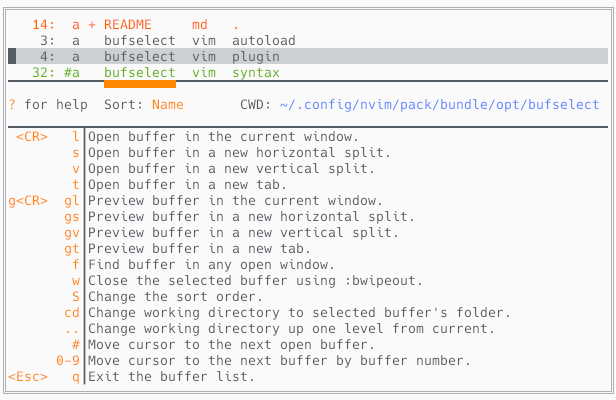
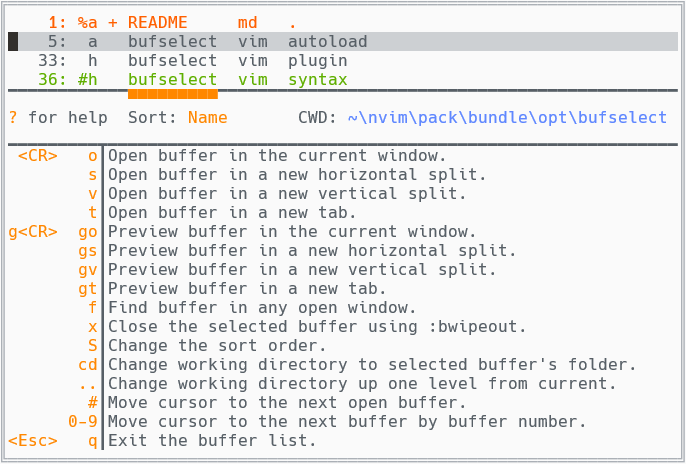
Bug fix:... Solution: Change the way settings are specified. (#34)
* Bug fix:... Solution: Change the way settings are specified.

This commit fixes a major bug. If the settings (`g:BufSelectSetup`) are
reset during an edit session, the plugin would fail when trying to
access a no-longer-present setting. BufSelect would fail to create its
own buffer, replace current buffer's contents, and set it to
unmodifiable. This was very difficult to undo, and could potentially
result in lost work/data.

In addition to the bug fix, the way settings are specified has been
improved. Instead of specifying them in a global variable, an autoload
function is called with the dictionary of settings, like so:

call bufselect#settings({'mappings':{'tab':'T'}})

* Clean up the README.

Changed region(s): [[0.0, 0.0, 1.0, 1.0]]

diff --git a/README.md b/README.md
@@ -5,13 +5,12 @@
 **BufSelect** is a minimalist buffer switcher plugin for Vim or Neovim. It was inspired by [bufexplorer](https://github.com/jlanzarotta/bufexplorer) and [buffergator](https://github.com/jeetsukumaran/vim-buffergator), but with some of their advanced functionality removed. What **BufSelect** ended up being is:
 
 * A [single command](#command) to kick things off.
-* A simple list in a floating window, showing the buffer number, filename, and relative path of all listed buffers. The list is generated each time **BufSelect** is displayed, thereby simplifying the code considerably.
-
+* A simple list in a floating window, showing the current working directory, and buffer number, filename, and relative path of all listed buffers.
     ![image](media/darkScreenshot.png)
-    <br/>**Figure 1**: BufSelect on a dark background
+    <br>**Figure 1**: BufSelect with a dark colorscheme
 
-* A few [key mappings](#key-mappings) to open and delete buffers, sort the list, change working directory, and quickly move between buffers.
-* Other settings define [sort order](#sort-order) and [custom highlighting](#custom-highlighting).
+* A few [key mappings](#key-mappings) to open, find, or delete buffers, sort the list, change working directory, and quickly navigate the list.
+* Other settings define [sort order](#sort-order) and [window customizations](#window-customizations).
 
 ## Installation
 
@@ -25,7 +24,7 @@ The `master` branch of this plugin is no longer compatible with Vim, and all new
 
 The only command is **`:ShowBufferList`**, which can be assigned to a key. The mapping is not done by this plugin, so as not to interfere with your existing mappings. Here's an example of how you would map the command:
 ```vim
-" vim script
+" vimscript
 nnoremap <silent> <leader>b :ShowBufferList<CR>
 ```
 ```lua
@@ -35,129 +34,73 @@ vim.api.nvim_set_keymap('n', '<leader>b', ':ShowBufferList<CR>', {noremap=true, 
 
 ## Settings
 
-Settings for **BufSelect** formerly were specified by 15 separate variables. They now are deprecated in favor of a single dictionary variable named `g:BufSelectSetup`. Using any of the old variables still will work but will cause a warning to be displayed.
+Settings for **BufSelect** are defined in a dictionary that is passed as a parameter to the `bufselect#settings` autoload function. The structure of the dictionary follows. Only the settings you want to override need to be specified. All others will use the default values, which are shown here.
 
-The structure of the dictionary follows. Only the settings you want to override need to be specified. All others will have the default value, which also is shown here. The corresponding old variables are in the last column.
-
-<table>
-    <thead>
-        <tr>
-            <th>Vim Script</th><th>Lua</th><th>Corresponding Old Variable</th>
-        </tr>
-    </thead>
-    <tbody>
-        <tr>
-            <td>
-<pre>
-let g:BufSelectSetup={
-\ 'mappings':{
- \ 'open':'o',
- \ 'split':'s',
- \ 'vsplit':'v',
- \ 'tab':'t',
- \ 'gopen':'go',
- \ 'gsplit':'gs',
- \ 'gvsplit':'gv',
- \ 'gtab':'gt',
- \ 'exit':'q',
- \ 'find':'f',
- \ 'delete':'x',
- \ 'sort':'S',
- \ 'cd':'cd',
- \ 'cdup':'..',
- \ 'next':'#'
-\ },
-\ 'sortOrder':'Name',
-\ 'win':{
- \ 'config':{'border':'double'},
- \ 'hl':''
- \ }
-\ }
-</pre>
-            </td>
-            <td>
-<pre>
-vim.g.BufSelectSetup={
- mappings={
-  open='o',
-  split='s',
-  vsplit='v',
-  tab='t',
-  gopen='go',
-  gsplit='gs',
-  gvsplit='gv',
-  gtab='gt',
-  exit='q',
-  find='f',
-  delete='x',
-  sort='S',
-  cd='cd',
-  cdup='..',
-  next='#'
- },
- sortOrder='Name',
- win={
-  config={border='double'},
-  hl=''
- }
+```vim
+{
+  "mappings": {
+    "open":    "o",
+    "split":   "s",
+    "vsplit":  "v",
+    "tab":     "t",
+    "gopen":   "go",
+    "gsplit":  "gs",
+    "gvsplit": "gv",
+    "gtab":    "gt",
+    "exit":    "q",
+    "find":    "f",
+    "delete":  "x",
+    "sort":    "S",
+    "cd":      "cd",
+    "cdup":    "..",
+    "next":    "#"
+  },
+  "sortOrder": "Name",
+  "win": {
+    "config": {"border": "double"},
+    "hl":     ""
+  }
 }
-</pre>
-            </td>
-            <td>
-<pre>
-           •
-           •
-BufSelectKeyOpen
-BufSelectKeySplit
-BufSelectKeyVSplit
-BufSelectKeyTab
-BufSelectKeyPreviewOpen
-BufSelectKeyPreviewSplit
-BufSelectKeyPreviewVSplit
-BufSelectKeyPreviewTab
-BufSelectKeyExit
-BufSelectKeyFind
-BufSelectKeyDeleteBuffer
-BufSelectKeySort
-BufSelectKeyChDir
-BufSelectKeyChDirUp
-BufSelectKeySelectOpen
-           •
-BufSelectSortOrder
-           •
-BufSelectFloatWinConfig
-(No old variable)
-           •
-           •
-</pre>
-            </td>
-        </tr>
-    </tbody>
-</table>
+```
+Here is the syntax for calling the `bufselect#settings` function, from either vimscript or lua.
+```vim
+" vimscript
+call bufselect#settings({
+    \ "mappings": {"delete":"w", "open":"l", "gopen":"gl"},
+    \ "win": {"config": {"border":"rounded", "title":"Buffers", "title_pos":"center"}}
+\ })
+```
+```lua
+-- lua
+vim.fn['bufselect#settings']({
+    mappings= {delete="w", open="l", gopen="gl"},
+    win= {config= {border="rounded", title="Buffers", title_pos="center"}}
+})
+```
 
 ### Key Mappings
 
-The `'mappings'` dictionary defines the key mappings that work only within **BufSelect**. They perform the following functions:
+The `'mappings'` part of dictionary defines key mappings that work only within **BufSelect**. They perform the following functions:
 
 | Dictionary Key | Function |
 | :-: | --- |
-| `'open'`    | Open the buffer in the current window, meaning the one under the **BufSelect** floating window. |
-| `'split'`   | Open the buffer in a new horizontal split. |
-| `'vsplit'`  | Open the buffer in a new vertical split. |
-| `'tab'`     | Open the buffer in a new tab. |
+| `"open"`    | Open the buffer in the current window, meaning the one under the **BufSelect** floating window. |
+| `"split"`   | Open the buffer in a new horizontal split. |
+| `"vsplit"`  | Open the buffer in a new vertical split. |
+| `"tab"`     | Open the buffer in a new tab. |
 | | |
-| `'gopen'`   | Preview the buffer in the current window, keeping **BufSelect** open. |
-| `'gsplit'`  | Preview the buffer in a new horizontal split, keeping **BufSelect** open. |
-| `'gvsplit'` | Preview the buffer in a new vertical split, keeping **BufSelect** open. |
-| `'gtab'`    | Preview the buffer in a new tab, keeping **BufSelect** open. |
+| `"gopen"`   | Preview the buffer in the current window, keeping **BufSelect** open. |
+| `"gsplit"`  | Preview the buffer in a new horizontal split, keeping **BufSelect** open. |
+| `"gvsplit"` | Preview the buffer in a new vertical split, keeping **BufSelect** open. |
+| `"gtab"`    | Preview the buffer in a new tab, keeping **BufSelect** open. |
 | | |
-| `'find'`    | Find the buffer in any open window, and go there. |
-| `'delete'`  | Close the buffer using vim's `bwipeout` command. |
-| `'sort'`    | Change the sort order. |
-| `'cd'`      | Change working directory to match the buffer's. |
-| `'cdup'`    | Change working directory up one level from current. |
-| `'next'`    | Move cursor to the next listed open buffer. |
-| `'exit'`    | Exit the buffer list. |
+| `"find"`    | Find the buffer in any open window, and go there. |
+| `"delete"`  | Close the buffer using vim's `bwipeout` command. |
+| `"sort"`    | Change the sort order. |
+| `"cd"`      | Change working directory to match the buffer's. |
+| `"cdup"`    | Change working directory up one level from current. |
+| `"next"`    | Move cursor to the next listed open buffer. |
+| `"exit"`    | Exit the buffer list. |
 
 Some other mappings are non-configurable. They are:
 
@@ -165,11 +108,11 @@ Some other mappings are non-configurable. They are:
 | :-: | --- |
 | <kbd>Enter</kbd> | opens a buffer in the current window. It's the same as `'open'`. |
 | <kbd>Esc</kbd> | exits the buffer list - the same as `'exit'`. |
-| <kbd>0</kbd>...<kbd>9</kbd> | moves the cursor to the next buffer matching the cumulatively-typed buffer number. See **Figure 2** below for illustration.<br>&nbsp;&nbsp;&nbsp;&nbsp;&nbsp;1. Typing <kbd>3</kbd> will search for and find buffer **3**.<br>&nbsp;&nbsp;&nbsp;&nbsp;&nbsp;2. Then typing <kbd>2</kbd> will search for and find buffer **32**.<br>&nbsp;&nbsp;&nbsp;3a. Then pressing <kbd>4</kbd> will look for buffer **324**.<br>&nbsp;&nbsp;&nbsp;3b. It doesn't exist, so drop the leading search digit and look for **24**.<br>&nbsp;&nbsp;&nbsp;3c. That doesn't exist either, so drop the **2** and look for buffer **4**, which exists. The search is over. |
+| <kbd>0</kbd>...<kbd>9</kbd> | moves the cursor to the next buffer matching the cumulatively-typed buffer number. See **Figure 2** below for illustration.<br>&nbsp;&nbsp;&nbsp;&nbsp;&nbsp;1. Typing <kbd>3</kbd> will search for and find buffer **33**, the next one starting with **3**.<br>&nbsp;&nbsp;&nbsp;&nbsp;&nbsp;2. Then typing <kbd>6</kbd> will search for and find buffer **36**.<br>&nbsp;&nbsp;&nbsp;3a. Then pressing <kbd>1</kbd> will look for buffer **361**.<br>&nbsp;&nbsp;&nbsp;3b. **361** doesn't exist, so drop the leading search digit and look for **61**.<br>&nbsp;&nbsp;&nbsp;3c. **61** doesn't exist either, so drop the **6** and look for buffer **1**, which does exist. The search is over. |
 | <kbd>?</kbd> | shows/hides short descriptions of all mappings. |
 
 ![image](media/lightScreenshot.png)
-<br/>**Figure 2**: On a light background, with help text shown. *(Note that `'open'`, `'gopen'`, and `'delete'` were overridden in this screenshot.)*
+<br>**Figure 2**: Using a light colorscheme, and showing the help text.
 
 ### Sort Order
 The initial sort order is set by the `'sortOrder'` setting. Valid values are `'Num'`, `'Status'`, `'Name'`, `'Extension'`, and `'Path'`.
@@ -180,33 +123,33 @@ The initial sort order is set by the `'sortOrder'` setting. Valid values are `'N
 * `h` a hidden buffer: it is loaded, but currently not displayed in a window
 * ` `(space) indicates a file that's been added (see [:help :badd](https://neovim.io/doc/user/windows.html#%3Abadd)), but is not yet loaded.
 
-### Floating Window Customizations
+### Window Customizations
 
 The **BufSelect** floating window can be customized two different ways in the `'win'` dictionary, which contains these two items:
 
 1. The `'config'` dictionary lets you change things like the border and title of the window. Check out [:help nvim_open_win()](https://neovim.io/doc/user/api.html#nvim_open_win()) for more for details. Example:
 
     ```vim
-    " vim script
-    let g:BufSelectSetup = {'win': {'config': {'border': 'single', 'title': ' Buffers: '}}
+    " vimscript
+    call bufselect#settings({'win': {'config': {'border':'single', 'title':'Buffers:'}}})
     ```
     ```lua
     -- lua
-    vim.g.BufSelectSetup = {win={config={border='single',title=' Buffers: '}}
+    vim.fn['bufselect#settings']({win= {config= {border='single', title='Buffers:'}}})
     ```
-    
+
     ![image](media/floatwinconfig.png)
-    <br/>**Figure 3**: BufSelect with a single border and a title
+    <br>**Figure 3**: Custom Window Attributes: single border and a title
 
 1. The `'hl'` string setting is used to override highlighting. Read [:help 'winhl'](https://neovim.io/doc/user/options.html#'winhl') to see how it works. For example, if your colorscheme doesn't define `NormalFloat`, you can use this to make it look like the normal background. It also works to link the **BufSelect** highlight groups to other highlight groups. Both scenarios are shown in this example:
 
     ```vim
-    " vim script
-    let g:BufSelectSetup = {'win': {'hl': 'NormalFloat:Normal,BufSelectCurrent:Keyword'}}
+    " vimscript
+    call bufselect#settings({'win': {'hl': 'NormalFloat:Normal,BufSelectCurrent:Keyword'}})
     ```
     ```lua
     -- lua
-    vim.g.BufSelectSetup = {win={hl='NormalFloat:Normal,BufSelectCurrent:Keyword'}}
+    vim.fn['bufselect#settings']({win= {hl='NormalFloat:Normal,BufSelectCurrent:Keyword'}})
     ```
 
     The highlight groups defined for **BufSelect** are:
